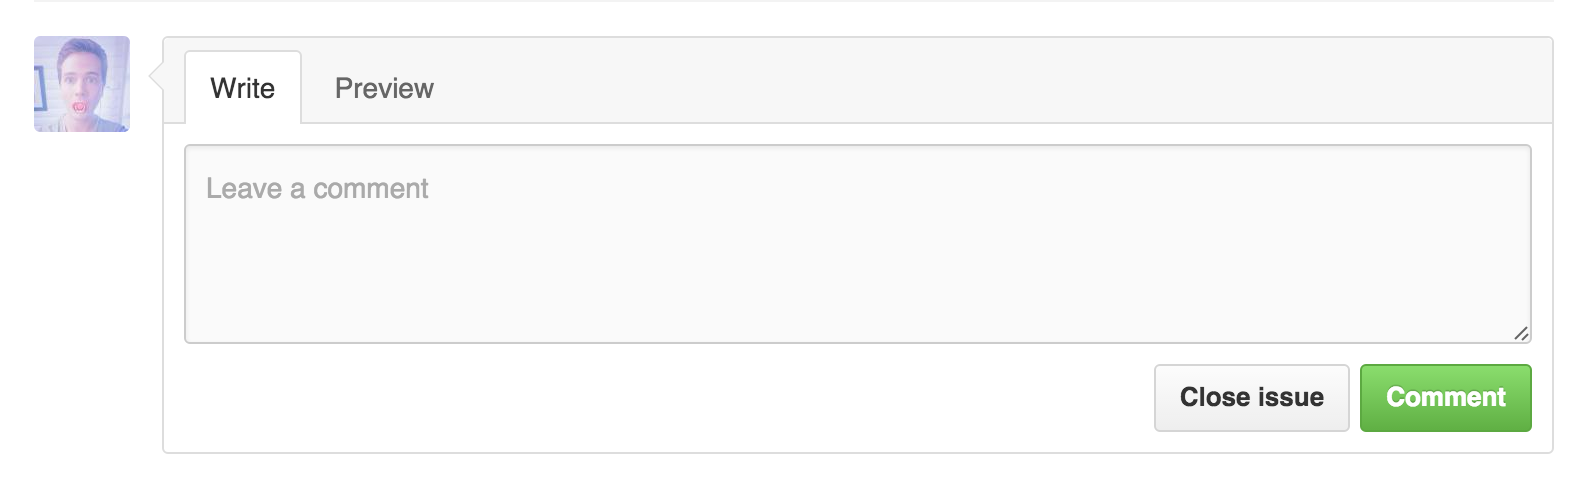
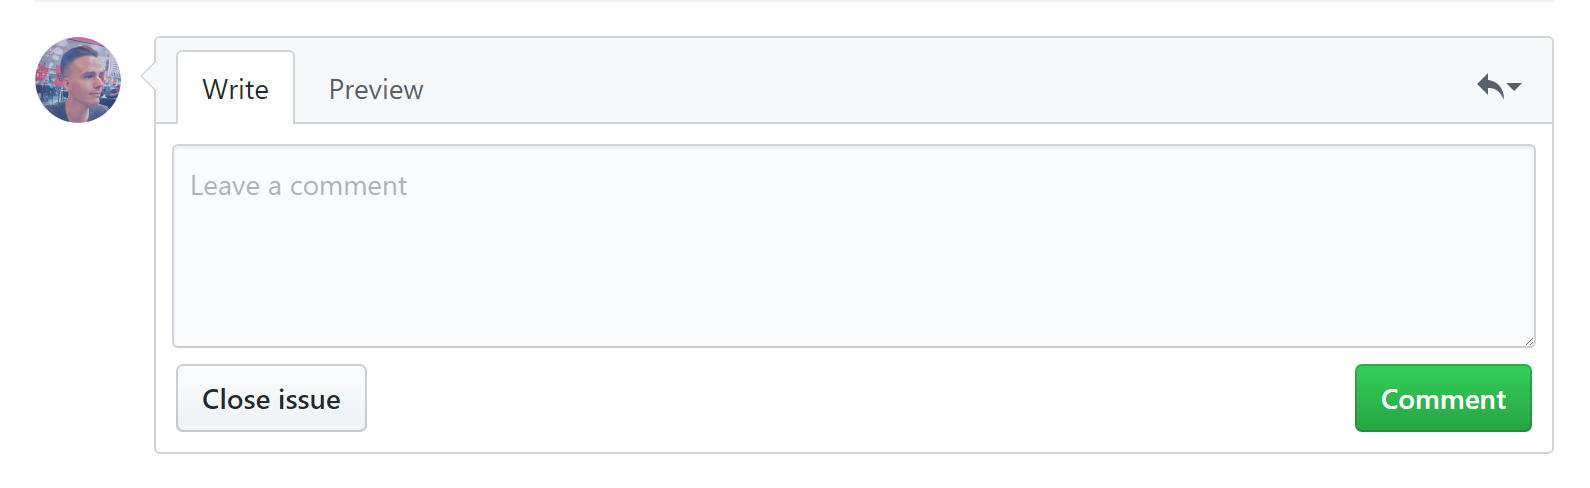
Move close/cancel buttons to the left - Fixes #410 (#414)
* Move 'close issue' button left, resolves #410

* Update comment box screenshot

* Move 'Cancel' button in comment edit and inline comments

* Add moved buttons to feature list

Changed region(s): [[0.0, 0.0615, 0.9862, 0.8914], [0.9245, 0.1537, 0.9553, 0.1844]]

diff --git a/extension/content.css b/extension/content.css
@@ -562,3 +562,26 @@ td.blob-code.blob-code-deletion:before {
 .review-comment .timeline-comment-label + .timeline-comment-label {
 	margin-left: 5px;
 }
+
+/* move "close issue" and "cancel" buttons on authoring comments to the left */
+
+/* ...in issue comment form */
+.form-actions .btn.js-comment-and-button {
+	float: left;
+}
+
+/* ...in comment edit form */
+div.previewable-edit .previewable-comment-form .form-actions {
+    float: none;
+    margin-left: 10px;
+}
+
+.previewable-edit .previewable-comment-form .form-actions .btn.js-comment-cancel-button {
+	float: left;
+}
+
+/* ...in inline comment form */
+div.inline-comment-form .form-actions,
+.inline-comment-form .form-actions .js-hide-inline-comment-form {
+	float: none;
+}

diff --git a/readme.md b/readme.md
@@ -31,6 +31,7 @@ Our hope is that GitHub will notice and implement some of these much needed impr
 - [Adds labels to comments by the original poster](https://cloud.githubusercontent.com/assets/4331946/25075520/d62fbbd0-2316-11e7-921f-ab736dc3522e.png)
 - [Adds navigation to milestone pages](https://cloud.githubusercontent.com/assets/170270/25217211/37b67aea-25d0-11e7-8482-bead2b04ee74.png)
 - [Adds search filter for 'Everything commented by you'](https://cloud.githubusercontent.com/assets/940070/25518367/cb917d3e-2c36-11e7-8475-c4e6dbe0ed6c.png)
+- [Moves destructive buttons ("Close issue", "Cancel") in commenting forms away from primary button](#comment-box)
 - Easier copy-pasting from diffs by making +/- signs unselectable
 - Shows the reactions popover on hover instead of click
 - Supports indenting with the tab key in textareas like the comment box (<kbd>Shift</kbd> <kbd>Tab</kbd> for original behavior)
